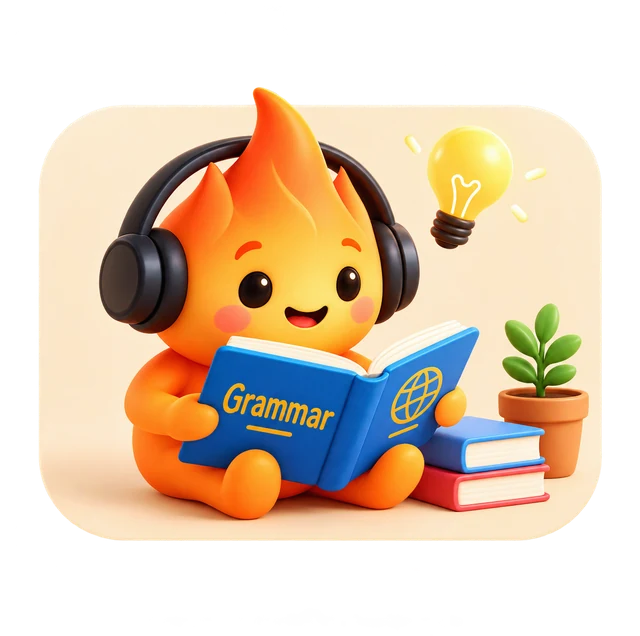
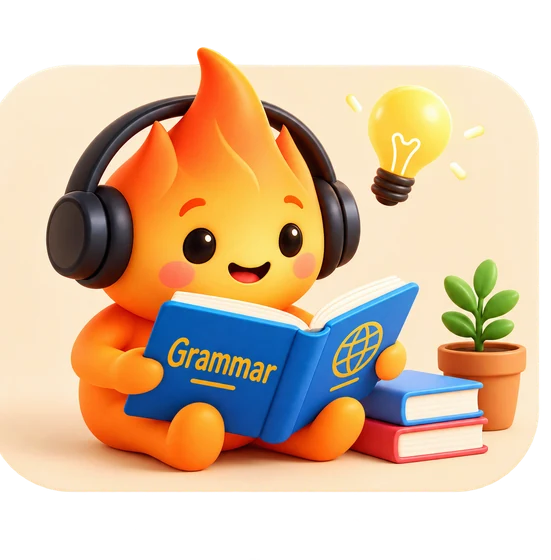
Grammar hero compact fix: tighter mascot crop (551px), 112px mascot, top-aligned hero, reduced crumb/hero/feats margins per Alireza

diff --git a/css/main.css b/css/main.css
@@ -3515,16 +3515,16 @@ button.hq-xp.is-claim:active { transform: scale(.96); }
 body.view-grammar #view { background: #FDF8F1; }
 .g-hub { max-width: var(--content-w); margin: 0 auto; padding: 0.3rem 0 2.5rem; }
 .g-hub #gtest-banner-wrap { margin-bottom: 0.9rem; }
-.gh-crumb { display: flex; align-items: center; gap: 0.32rem; color: #9AA1B5; font-size: 0.85rem; margin-bottom: 0.55rem; }
+.gh-crumb { display: flex; align-items: center; gap: 0.32rem; color: #9AA1B5; font-size: 0.85rem; margin-bottom: 0.3rem; }
 .gh-crumb b { color: #232B4D; font-weight: 700; }
 .gh-crumb-sep { color: #C6CCDD; }
-.gh-hero { display: flex; align-items: center; gap: 0.7rem; margin-bottom: 0.85rem; }
+.gh-hero { display: flex; align-items: flex-start; gap: 0.6rem; margin-bottom: 0.55rem; }
 .gh-hero-t { flex: 1 1 auto; min-width: 0; }
 .gh-hero-t h1 { font-family: "Fredoka", "Avenir Next", "Trebuchet MS", sans-serif; font-weight: 700; font-size: 2rem; line-height: 1.12; letter-spacing: -0.01em; color: #232B4D; margin: 0 0 0.45rem; }
 .gh-hero-t h1 em { font-style: normal; color: #F26522; }
-.gh-hero-t p { color: #5B6478; font-size: 0.92rem; line-height: 1.55; margin: 0; }
-.gh-mascot { width: 132px; height: auto; border-radius: 26px; box-shadow: 0 10px 26px rgba(242, 101, 34, 0.20); flex: 0 0 auto; }
-.gh-feats-img { display: block; width: 100%; height: auto; margin-bottom: 0.9rem; }
+.gh-hero-t p { color: #5B6478; font-size: 0.9rem; line-height: 1.5; margin: 0; }
+.gh-mascot { width: 112px; height: auto; border-radius: 22px; box-shadow: 0 10px 26px rgba(242, 101, 34, 0.20); flex: 0 0 auto; }
+.gh-feats-img { display: block; width: 100%; height: auto; margin-bottom: 0.7rem; }
 .gh-filters { display: flex; gap: 0.45rem; overflow-x: auto; padding: 0.15rem 0 0.5rem; margin-bottom: 0.7rem; -webkit-overflow-scrolling: touch; scrollbar-width: none; }
 .gh-filters::-webkit-scrollbar { display: none; }
 .gh-pill { flex: 0 0 auto; border: 1px solid transparent; border-radius: 999px; padding: 0.62rem 1.2rem; font-size: 0.95rem; font-weight: 700; color: #232B4D; cursor: pointer; font-family: inherit; box-shadow: 0 2px 8px rgba(120, 90, 40, 0.07); }
@@ -3616,7 +3616,7 @@ body.view-grammar #view { background: #FDF8F1; }
 @media (min-width: 1024px) {
   .g-hub, .g-topic, .g-quiz { max-width: 860px; }
   .gh-cards { display: grid; grid-template-columns: 1fr 1fr; gap: 0.7rem; }
-  .gh-mascot { width: 168px; }
+  .gh-mascot { width: 148px; }
   .gh-hero-t h1 { font-size: 2.4rem; }
   #home-grammar-wrap { margin: 0 0 1.1rem; }
   .dhome .g-banner { padding: 1rem 1.25rem; }

diff --git a/index.html b/index.html
@@ -278,7 +278,7 @@ html:not(.app-mode) #splash{display:none!important}
   <meta name="apple-mobile-web-app-capable" content="yes">
   <meta name="apple-mobile-web-app-status-bar-style" content="default">
   <meta name="apple-mobile-web-app-title" content="Muse English">
-  <link rel="stylesheet" href="/css/main.css?v=2e205d78">
+  <link rel="stylesheet" href="/css/main.css?v=d020f197">
   <!-- Supabase JS client (auth + database) -->
   <script defer src="https://cdn.jsdelivr.net/npm/@supabase/supabase-js@2"></script>
   <!-- Capture OneSignal SDK console output for diagnostics (runs before the SDK) -->
